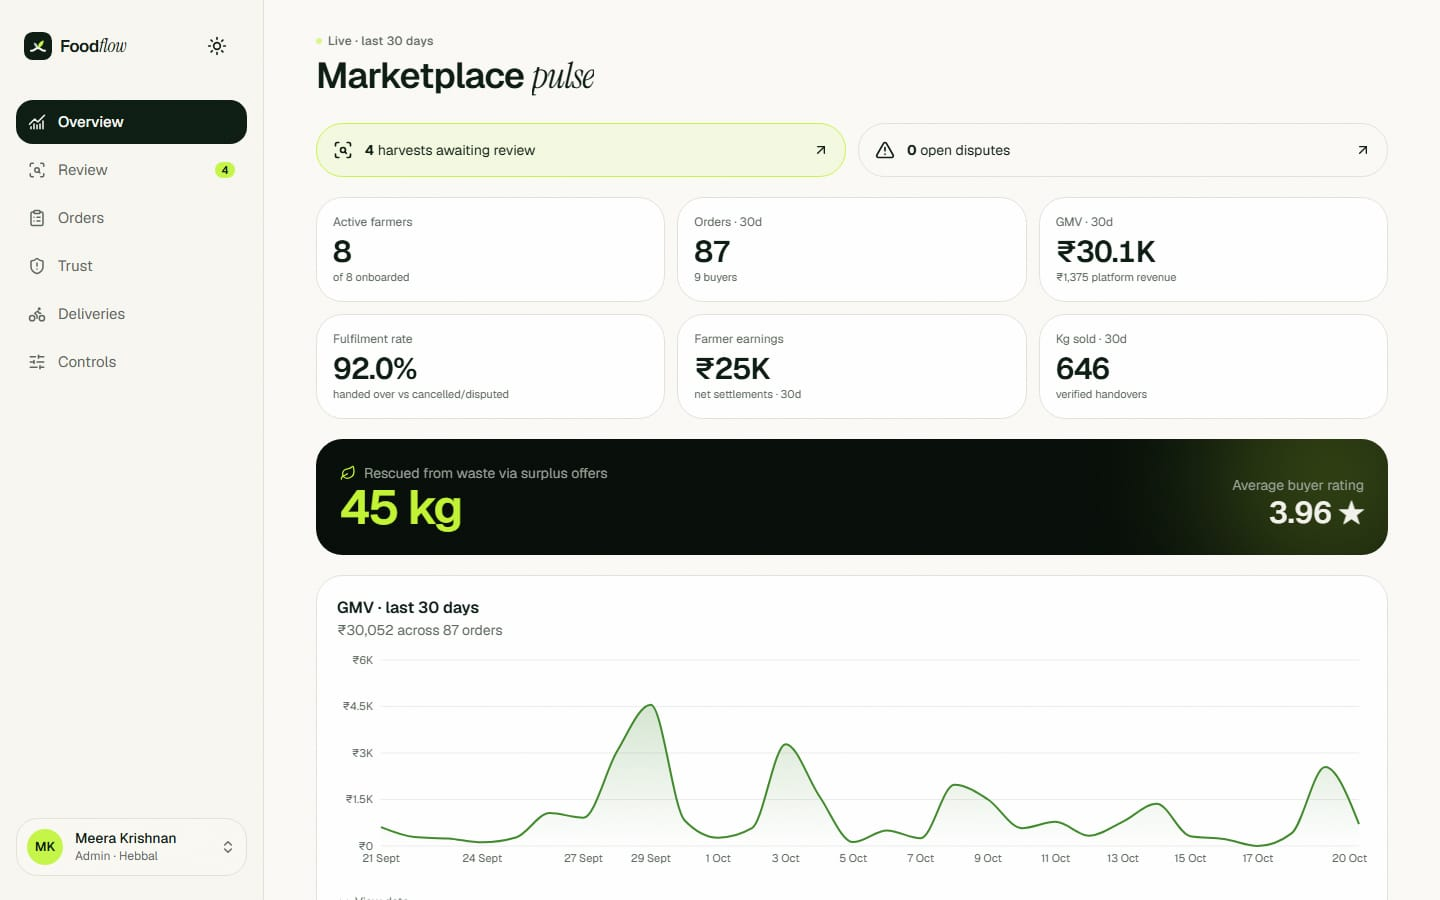
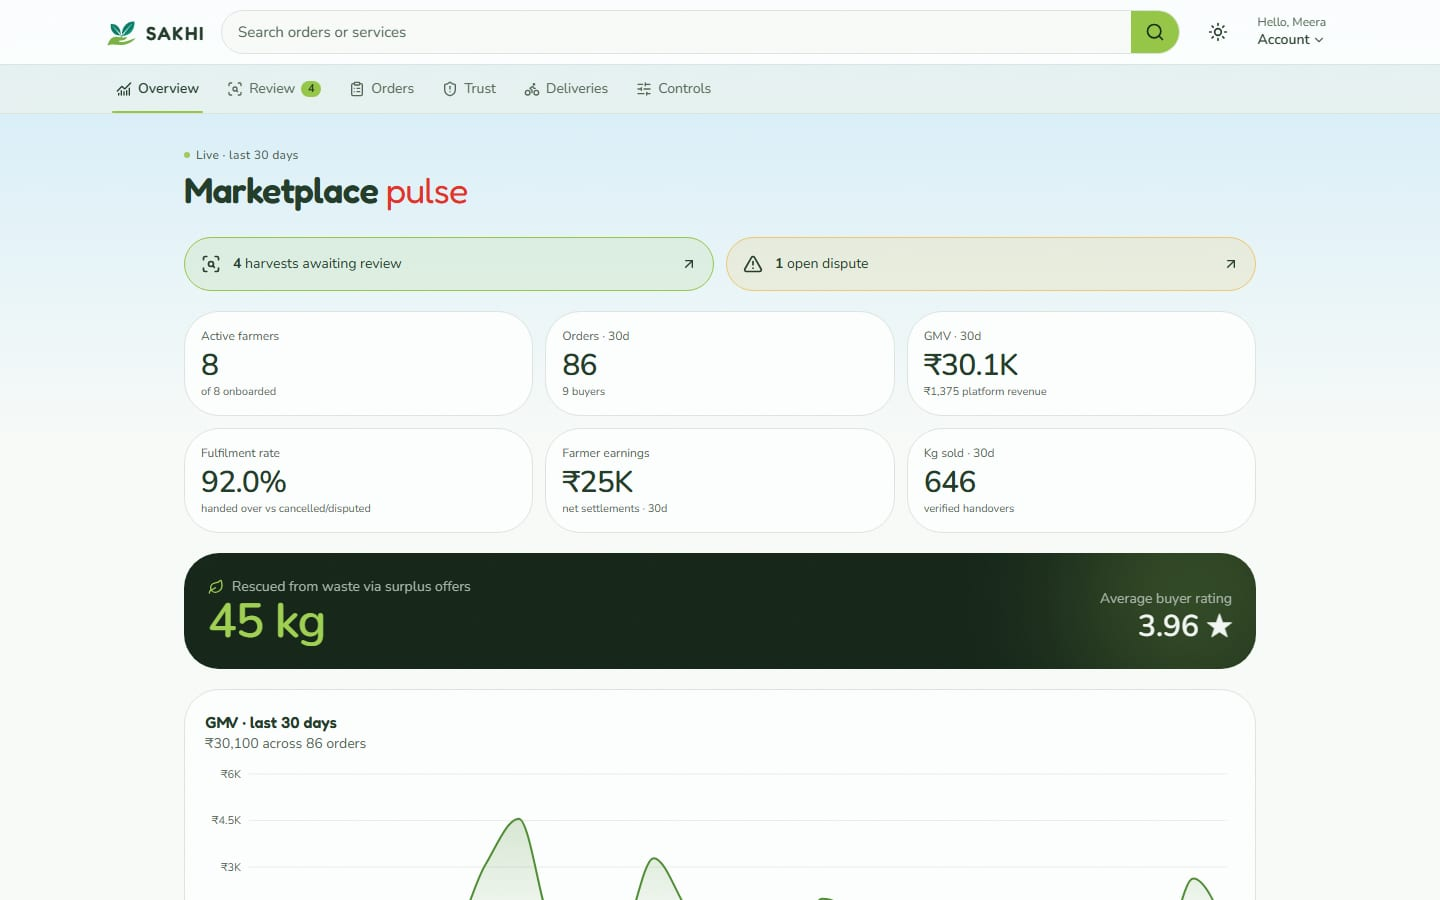
docs: README, privacy notes and screenshots for SAKHI
README rewritten around the new name and tagline with the SAKHI repository links and no SDG section; privacy notes renamed; every screenshot retaken with the new brand.

diff --git a/README.md b/README.md
@@ -1,13 +1,18 @@
-# FoodFlow — From Every Harvest to Every Table
+<p align="center">
+  <img src="public/brand/logo.svg" width="112" alt="SAKHI logo: an open hand holding a sprout" />
+</p>
 
-[![CI/CD](https://github.com/skypank-coder/FOODFLOW-From-Every-Harvest-to-Every-Table/actions/workflows/ci.yml/badge.svg)](https://github.com/skypank-coder/FOODFLOW-From-Every-Harvest-to-Every-Table/actions/workflows/ci.yml)
+# SAKHI
 
-AI-assisted fresh-produce marketplace connecting smallholder farmers directly with households,
-restaurants and community kitchens (UN SDG 2, Zero Hunger).
-**A fresh-produce marketplace that connects smallholder farmers directly with households, restaurants
-and community kitchens — with AI that assists and people who decide.** Built for UN SDG 2 — Zero Hunger.
+**Your harvest. Your choices. Your future.**
 
-![FoodFlow landing page](docs/screenshots/landing.jpg)
+[![CI/CD](https://github.com/RachanaB5/SAKHI-Every-Farmer-Deserves-an-Opportunity./actions/workflows/ci.yml/badge.svg)](https://github.com/RachanaB5/SAKHI-Every-Farmer-Deserves-an-Opportunity./actions/workflows/ci.yml)
+
+**A trusted companion connecting farmers, buyers and communities.** Smallholder farmers sell their harvest
+direct to households, restaurants and community kitchens, by voice, in Kannada, Hindi or English, with AI
+that assists and people who decide.
+
+![SAKHI landing page](docs/screenshots/landing.jpg)
 
 ---
 
@@ -18,7 +23,7 @@ pay — and perishable produce that doesn't sell in time is simply lost. Meanwhi
 markups for produce that is days old, restaurants juggle unreliable suppliers, and community kitchens
 that feed people for free struggle to source affordably.
 
-## What FoodFlow does
+## What SAKHI does
 
 One marketplace, five apps — each built mobile-first at 360px and scaling up to a full desktop web app.
 
@@ -94,8 +99,8 @@ What happens to voice and text: [docs/assistant-privacy.md](docs/assistant-priva
 Requires **Node.js 20.9+**.
 
 ```bash
-git clone https://github.com/skypank-coder/FOODFLOW-From-Every-Harvest-to-Every-Table.git
-cd FOODFLOW-From-Every-Harvest-to-Every-Table
+git clone https://github.com/RachanaB5/SAKHI-Every-Farmer-Deserves-an-Opportunity..git sakhi
+cd sakhi
 npm install
 npm run setup   # creates .env, builds the SQLite database, seeds the Bengaluru pilot
 npm run dev
@@ -192,14 +197,6 @@ stateDiagram-v2
 | **Subscriptions** | IST slot scheduling; a run claims the plan with a conditional update so overlapping schedulers place one order; falls back to the same farmer, then any farm, when stock runs out. | `lib/subscriptions.ts` |
 | **Trust & safety** | SHA-256 duplicate-photo detection across batches, complaint-rate flags, price outliers vs. the mandi reference. Flags only — suspension and pausing are human actions, audit-logged. | `lib/trust.ts` |
 
-## SDG mapping
-
-| Goal | Target | How FoodFlow contributes |
-| --- | --- | --- |
-| **SDG 2 — Zero Hunger** | 2.1 access to safe, nutritious food · 2.3 smallholder incomes | Surplus produce is routed to community kitchens before it spoils; households buy fresher food direct; farmers keep a larger share. |
-| **SDG 1 — No Poverty** | 1.4 equal access to economic resources | Direct market access for smallholders, fair indicative pricing, every fee shown line by line, payouts after every verified handover. |
-| **SDG 12 — Responsible Consumption & Production** | 12.3 halve food waste and reduce post-harvest loss | Shelf-life tracking, early surplus detection, one-tap rescue offers, and subscriptions that give farmers predictable demand. The landing page shows kg rescued, live from the database. |
-
 ## Tech stack
 
 Next.js 16 (App Router, Turbopack) · React 19 · TypeScript (strict) · Tailwind CSS 4 · shadcn/ui ·
@@ -291,6 +288,4 @@ project settings. If the Vercel project is also connected to this repo through V
 integration, add `"git": { "deploymentEnabled": { "main": false } }` to `vercel.json` so `main`
 deploys only after CI passes. Without that, each push deploys twice.
 
-Full documentation (architecture, SDG mapping, screenshots) lands at the end of the build — see
-[PROGRESS.md](PROGRESS.md) for what's done so far.
 Build notes and decisions: [PROGRESS.md](PROGRESS.md).

diff --git a/PROGRESS.md b/PROGRESS.md
@@ -1,11 +1,11 @@
-# FoodFlow — build progress
+# SAKHI — build progress
 
 Status of each build phase, what's next, and the decisions made along the way.
 
 ## Phase 0 — Setup ✅
 
 - Next.js 16 (App Router, Turbopack) + strict TypeScript, Tailwind v4, ESLint + Prettier
-- shadcn/ui (Radix) with FoodFlow tokens (ink / paper / harvest lime / tomato), light + dark themes,
+- shadcn/ui (Radix) with SAKHI tokens (ink / paper / harvest lime / tomato), light + dark themes,
   Geist + Instrument Serif + Noto Devanagari/Kannada, 44px touch targets, 16px inputs
 - Prisma schema (all models from the brief + `OrderEvent`, `DeliveryAttempt`, `ServiceArea`,
   `Category`, `PlatformSetting`) and initial SQLite migration
@@ -81,7 +81,7 @@ Status of each build phase, what's next, and the decisions made along the way.
 
 - Landing site (`/`): desktop-first and responsive to 360px. Interactive 3D hero (react-three-fiber,
   falls back without WebGL, pauses off-screen), live mandi ticker, interface cards with one-tap demo
-  sign-in, scroll-linked how-it-works, live impact counters from the DB, SDG 2/1/12, honesty strip
+  sign-in, scroll-linked how-it-works, live impact counters from the DB, honesty strip
 - Farmer dashboard (`/farmer`): earnings, sell-through, quality trend, at-risk lots
 - Surplus (`/farmer/surplus`): at risk when sell-through is below the threshold after the minimum
   age, or the harvest has used the configured share of shelf life; one-tap rescue offers to open
@@ -112,7 +112,7 @@ Status of each build phase, what's next, and the decisions made along the way.
 - Date-driven forms (harvest wizard, demand form) use the user's local date and render client-only
 - Search matches names case-insensitively on Postgres as well as SQLite
 - Deploy: `vercel.json`, `npm run vercel-build` (Postgres switch + schema push), `CRON_SECRET`
-- README with architecture, order lifecycle, SDG mapping, screenshots, demo script and deploy guide
+- README with architecture, order lifecycle, screenshots, demo script and deploy guide
 - Demo script run end-to-end through the UI at 360px: all 7 steps pass with no console errors
 - Tests: 56 passing (+ subscriptions, search)
 
@@ -146,7 +146,7 @@ a tight sign-up rate limit for shared Wi-Fi, and remaining untranslated farmer l
 | Test DB | Vitest builds a throwaway `prisma/test.db` by deleting the file and pushing the schema (no destructive reset of any real database). |
 | Confirm at checkout | Checkout places the order (payment AUTHORISED) and immediately confirms it (stock reserved + payment CAPTURED) in one transaction, so stock can't be oversold between cart and payment. A farm whose stock ran out gets a cancelled order with the authorisation released. |
 | Quote never errors for out-of-area | `/api/checkout/quote` returns `blocked` with a friendly message (no 4xx in the console); only placing the order returns 422. |
-| Courier pricing | Pooled routes: ₹15 + ₹1.5/km per order, capped at ₹60. The farmer pays only the shortfall over the buyer's delivery fee, and never more than 15% of the order value — FoodFlow absorbs the rest, so a small order can't leave a farmer out of pocket. |
+| Courier pricing | Pooled routes: ₹15 + ₹1.5/km per order, capped at ₹60. The farmer pays only the shortfall over the buyer's delivery fee, and never more than 15% of the order value — SAKHI absorbs the rest, so a small order can't leave a farmer out of pocket. |
 | Recipient generates the OTP | The plaintext OTP is returned only to the buyer when they tap "Show OTP" (kept in sessionStorage until expiry). The rider never sees it except from the customer. |
 | Pickup QR | A JWT bound to the order and the current OTP nonce, so regenerating the code invalidates old QRs. |
 | Offers need a live listing | A bulk offer must point at one of the farmer's ACTIVE listings of that crop, so accepting it can reserve real stock atomically. Farmers without one are nudged to list a harvest. |

diff --git a/docs/assistant-privacy.md b/docs/assistant-privacy.md
@@ -21,19 +21,19 @@ page explains what happens to a farmer's voice and words, in plain terms.
 
 ## Where speech becomes text
 
-- Speech recognition is done by the **browser's own speech service** (the Web Speech API). FoodFlow's
+- Speech recognition is done by the **browser's own speech service** (the Web Speech API). SAKHI's
   servers **never receive, store or forward audio**.
 - Depending on the browser, that service may run on the device or in the browser vendor's cloud
   (Chrome and Edge use their vendor's online speech service; Safari may process on the device). That
-  is governed by the browser's privacy policy, not FoodFlow's.
+  is governed by the browser's privacy policy, not SAKHI's.
 - Firefox has no speech recognition; the panel says voice isn't supported and offers typing.
 - A server-side Indic speech model is **not implemented**. `ServerSttProvider` in
   `lib/assistant/stt.ts` is a stub that reports itself unavailable, so setting
   `NEXT_PUBLIC_STT_PROVIDER=server` today still uses the browser.
 
-## What FoodFlow receives and keeps
+## What SAKHI receives and keeps
 
-| What | Sent to FoodFlow? | Kept? |
+| What | Sent to SAKHI? | Kept? |
 | --- | --- | --- |
 | Audio | No | No |
 | The text of a request (typed, or recognised by the browser and shown for editing first) | Yes, to `/api/assistant/interpret` | Only when it creates a harvest draft: the sentence is saved on that draft as `voiceTranscript`, so the admin reviewing the listing can see what the farmer said. Other requests are not stored. |
@@ -43,7 +43,7 @@ page explains what happens to a farmer's voice and words, in plain terms.
 ## During seller sign-up
 
 - The sign-up guide on `/join/seller` runs entirely in the browser. It turns each answer into a value in
-  the form on screen, where the farmer can see and change it. Nothing is sent to FoodFlow until the account
+  the form on screen, where the farmer can see and change it. Nothing is sent to SAKHI until the account
   is created, exactly as with typing.
 - The guide never asks for the PIN out loud. It asks the farmer to type it, and only then asks "Shall I
   create your seller account now?". The account is created on that spoken "yes" (or a tap on **Create my
@@ -60,13 +60,13 @@ page explains what happens to a farmer's voice and words, in plain terms.
   account data). The model may only return a structured intent from a fixed list plus the values the
   farmer said (crop, quantity, price, date), validated against a schema.
 - The model never reads or writes the database and never writes a reply. Every reply is a fixed
-  template; amounts in it come from FoodFlow's records, or are the farmer's own values shown on a card
+  template; amounts in it come from SAKHI's records, or are the farmer's own values shown on a card
   to check before anything changes.
 - With no key, or when the model is slow or down, the rule parser answers on its own.
 
 ## Speaking back
 
-- Replies are spoken with the device's built-in voices (`speechSynthesis`); FoodFlow sends no text
+- Replies are spoken with the device's built-in voices (`speechSynthesis`); SAKHI sends no text
   anywhere to be spoken. (Some browsers' "online" voices are themselves provided by the browser vendor's
   service.)
 - The voice is chosen automatically: Indian English first for English (so names, places and crops are

diff --git a/public/photos/CREDITS.md b/public/photos/CREDITS.md
@@ -1,6 +1,6 @@
 # Brand photography
 
-The files here are crops of the FoodFlow reference imagery supplied by the
+The files here are crops of the SAKHI reference imagery supplied by the
 project owner (AI-generated farm-to-table shots plus two supplied still
 lifes: fruit-basket.jpg and veg-basket.jpg). They are served locally, never
 hot-linked. Source resolution is modest (the largest crop is about 1670 px
